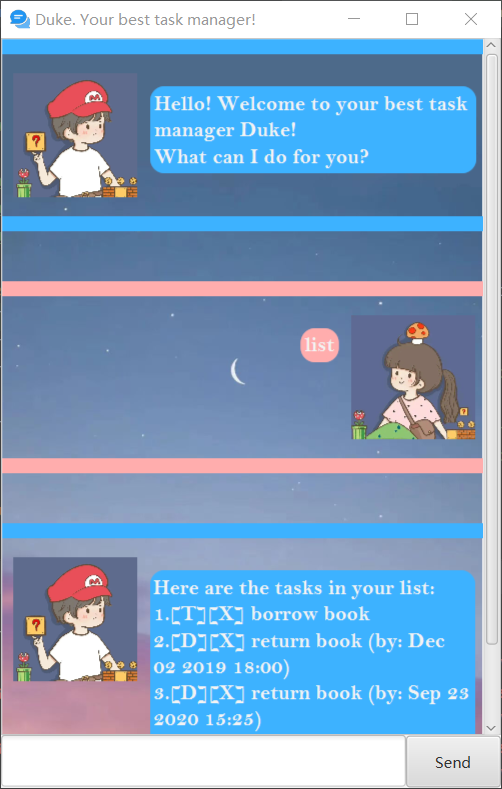
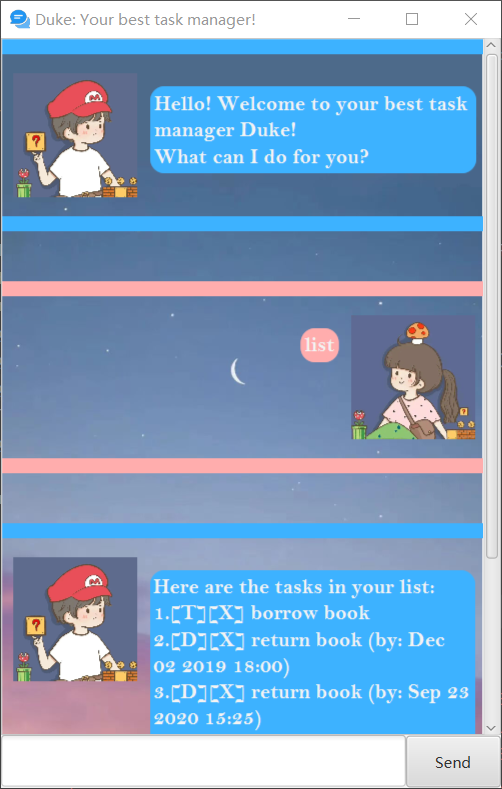
Fix some bugs in Undo

diff --git a/src/main/java/duke/executions/LastExecution.java b/src/main/java/duke/executions/LastExecution.java
@@ -38,7 +38,7 @@ public class LastExecution {
     private String resetDone() {
         String text;
         this.tasks.get(lastIndex).resetDone();
-        text = "Good! I have undone your newly added task!\n";
+        text = "Good! I have recovered your task to undone again!\n";
         return text;
     }
 
@@ -52,7 +52,7 @@ public class LastExecution {
     private String undoAdd() {
         String text;
         this.tasks.remove(tasks.size() - 1);
-        text = "Good! I have recovered your task to undone again!\n";;
+        text = "Good! I have undone your newly added task!\n";;
         return text;
     }
 

diff --git a/src/main/java/duke/uimanager/Main.java b/src/main/java/duke/uimanager/Main.java
@@ -32,7 +32,7 @@ public class Main extends Application {
             Scene scene = new Scene(ap);
             stage.setScene(scene);
             stage.getIcons().add(new Image("/images/icon.png"));
-            stage.setTitle("Duke. Your best task manager!");
+            stage.setTitle("Duke: Your best task manager!");
             fxmlLoader.<MainWindow>getController().setDuke(duke);
             stage.show();
         } catch (IOException e) {
